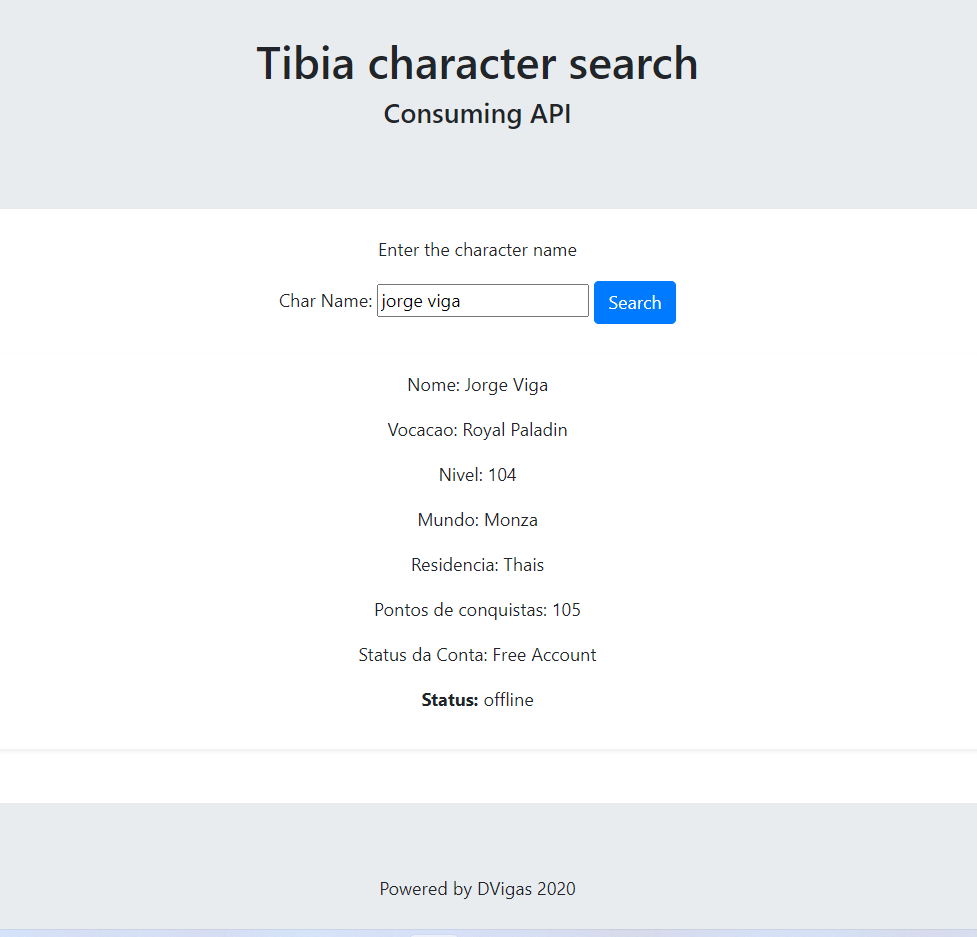
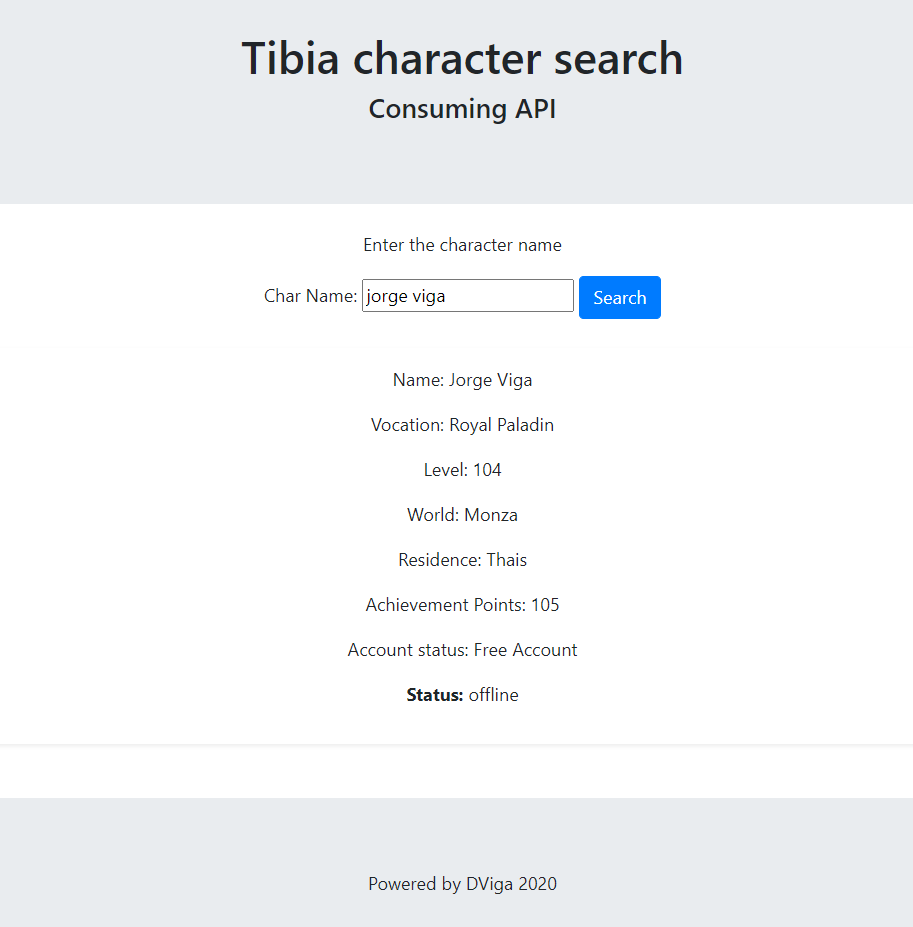
update
update

diff --git a/source/script.js b/source/script.js
@@ -1,91 +1,56 @@
-var charName = document.getElementById("txtChar");
-var charContainer = document.getElementById("mostrar-info");
-var btn = document.getElementById("btn");
-
+var charName = document.getElementById('txtChar')
+var charContainer = document.getElementById('show-info')
+var btn = document.getElementById('btn')
 
 // when press the button: //
-btn.addEventListener("click", function(){
-    
-    document.getElementById("mostrar-info").innerHTML = "";    
+btn.addEventListener('click', function () {
+  document.getElementById('show-info').innerHTML = ''
 
+  var ourRequest = new XMLHttpRequest()
 
-    var ourRequest = new XMLHttpRequest();    
-    
+  ourRequest.open(
+    'GET',
+    'https://api.tibiadata.com/v2/characters/' + charName.value + '.json'
+  ) // se eu quiser enviar requisicao coloco POST em vez de GET
 
-    ourRequest.open('GET', 'https://api.tibiadata.com/v2/characters/' + charName.value + '.json');  // se eu quiser enviar requisicao coloco POST em vez de GET
+  ourRequest.onload = function () {
+    var ourData = JSON.parse(ourRequest.responseText)
+    //console.log(ourData.characters.data);
+    //renderHTML(ourData);
 
-    ourRequest.onload = function(){
-        var ourData = JSON.parse(ourRequest.responseText);
-        //console.log(ourData.characters.data);
-        //renderHTML(ourData);
+    var htmlString = ''
+    htmlString += '<p> Name: ' + ourData.characters.data.name + '</p>'
+    htmlString += '<p> Vocation: ' + ourData.characters.data.vocation + '</p>'
+    htmlString += '<p> Level: ' + ourData.characters.data.level + '</p>'
+    htmlString += '<p> World: ' + ourData.characters.data.world + '</p>'
+    htmlString += '<p> Residence: ' + ourData.characters.data.residence + '</p>'
+    htmlString +=
+      '<p> Achievement Points: ' +
+      ourData.characters.data.achievement_points +
+      '</p>'
+    htmlString +=
+      '<p> Account status: ' + ourData.characters.data.account_status + '</p>'
+    htmlString +=
+      '<p> <strong> Status: </strong> ' +
+      ourData.characters.data.status +
+      '</p>'
 
-        var htmlString = "";
-        htmlString += "<p> Nome: " + ourData.characters.data.name + "</p>";
-        htmlString += "<p> Vocacao: " + ourData.characters.data.vocation + "</p>";
-        htmlString += "<p> Nivel: " + ourData.characters.data.level + "</p>";
-        htmlString += "<p> Mundo: " + ourData.characters.data.world + "</p>";
-        htmlString += "<p> Residencia: " + ourData.characters.data.residence + "</p>";
-        htmlString += "<p> Pontos de conquistas: " + ourData.characters.data.achievement_points + "</p>";
-        htmlString += "<p> Status da Conta: " + ourData.characters.data.account_status + "</p>";
-        htmlString += "<p> <strong> Status: </strong> " + ourData.characters.data.status + "</p>";
+    var otherChars = ourData.characters.other_characters
 
-        var otherChars = ourData.characters.other_characters;
+    for (i = 0; i < otherChars.length; i++) {
+      htmlString +=
+        '<p> Nome: ' +
+        otherChars[i].name +
+        ' - <strong> Status: </strong>' +
+        otherChars[i].status +
+        '</p>'
+      //htmlString += "<p> Status: " + otherChars[i].status + "</p>";
+    }
 
-        for (i=0; i < otherChars.length; i++){
-            htmlString += "<p> Nome: " + otherChars[i].name + " - <strong> Status: </strong>" + otherChars[i].status + "</p>";
-            //htmlString += "<p> Status: " + otherChars[i].status + "</p>";    
-        }
+    charContainer.insertAdjacentHTML('beforeend', htmlString)
 
-        
-        charContainer.insertAdjacentHTML('beforeend', htmlString); 
+    console.log(otherChars[0].name)
+  }
 
-        console.log(otherChars[0].name);
-       
-    };
-
-    ourRequest.send();
-
-});
-
-
-
-// funcao para adicionar html para a pagina para o div elemento 
-// function renderHTML(data){
-//     var htmlString = "";
-
-//     htmlString += "<p>" + data[i].name + ".</p>";
-    
-
-    // for (i=0; i < data.length; i++){
-    //     htmlString += "<p>" + data[i].name + ".</p>";
-        
-    // }
-
-    //charContainer.insertAdjacentHTML('beforeend', htmlString);
-
-// }
-
-
-// =============== ******************** ============= //
-// SO ESSE CODIGO ABAIXO JA FUNCIONA NO CONSOLE, O CODIGO ACIMA E PARA EXIBIR NO BROWSER COM AJAX //
-
-// var ourRequest = new XMLHttpRequest();
-// var charName = 'jviga';
-
-// ourRequest.open('GET', 'https://api.tibiadata.com/v2/characters/' + charName + '.json');  // se eu quiser enviar requisicao coloco POST em vez de GET
-
-// ourRequest.onload = function(){
-//     var ourData = JSON.parse(ourRequest.responseText);
-//     //console.log(ourData.characters.data);
-
-//      console.log(ourData.characters.data.name);
-//      console.log(ourData.characters.data.vocation);
-//      console.log(ourData.characters.data.level);
-//      console.log(ourData.characters.data.world);
-//      console.log(ourData.characters.data.residence);
-//      console.log(ourData.characters.data.achievement_points);
-//      console.log(ourData.characters.data.account_status);
-//      console.log(ourData.characters.data.status);
-// };
-
-// ourRequest.send();
+  ourRequest.send()
+})

diff --git a/source/index.html b/source/index.html
@@ -32,7 +32,7 @@
       ><br />
       <br />
 
-      <div id="mostrar-info" class="shadow-sm p-3 mb-5 bg-white rounded"></div>
+      <div id="show-info" class="shadow-sm p-3 mb-5 bg-white rounded"></div>
     </div>
 
     <div class="jumbotron text-center" style="margin-bottom: 0">

diff --git a/README.md b/README.md
@@ -10,22 +10,19 @@
 * The page looks for information of the character chosen by the user
 
 ---
+[![License: MIT](https://img.shields.io/badge/License-MIT-yellow.svg)](https://opensource.org/licenses/MIT)
+
 tibia_api_js_bootstrap
 
-Consuming Tibia MMORPG API. Character search - JS and Bootstrap
+## Consuming Tibia MMORPG API. Character search - JS and Bootstrap
 
 ***
 
 Print screen of usage examples:
 
 
-<img src="source/img/screen01.png" alt="teste" width="350em">
+<img src="source/img/screen01.png" alt="First Screenshot" width="500em">
 
-<img src="source/img/screen02.png" alt="teste" width="350em">
-
-
-![Screen 01](/source/img/screen01.png)
-
-![Screen 01](/source/img/screen02.png)
+<img src="source/img/screen02.png" alt="Second Screenshot" width="500em">
 
 
